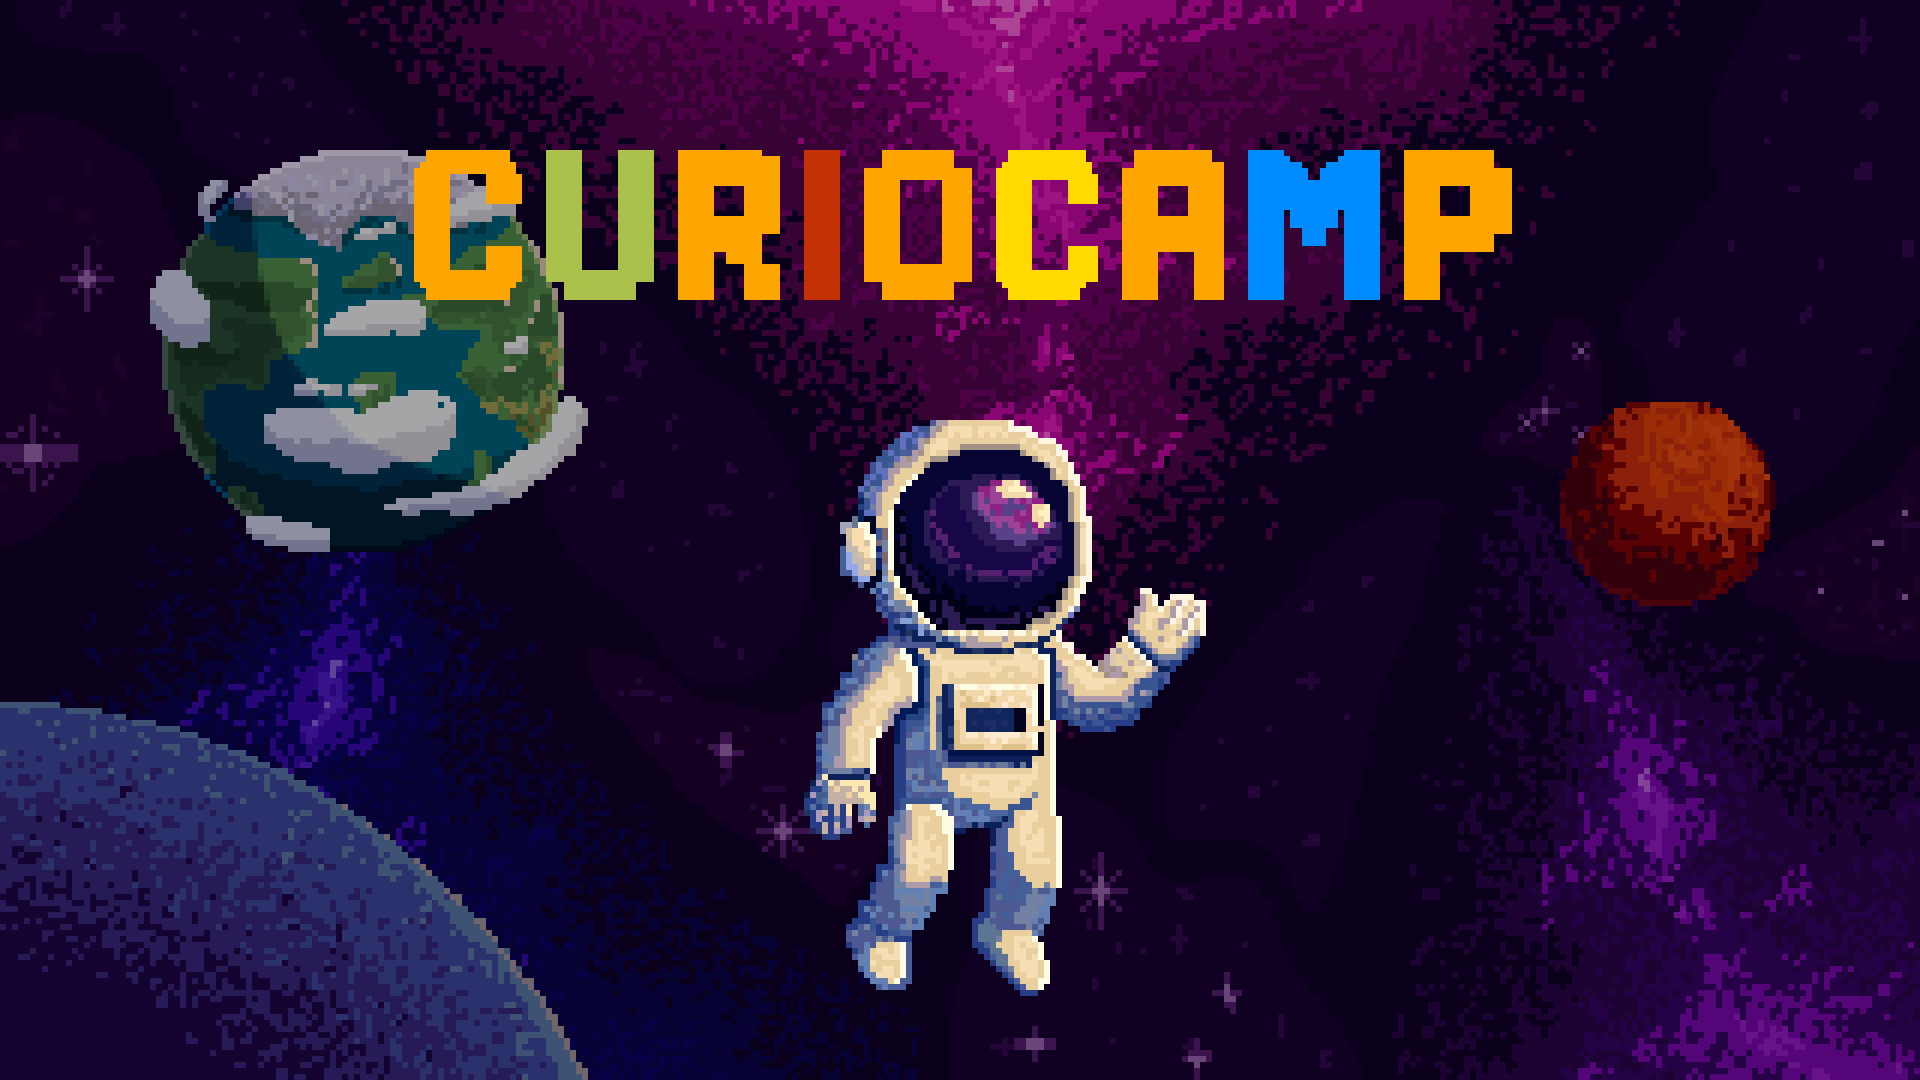
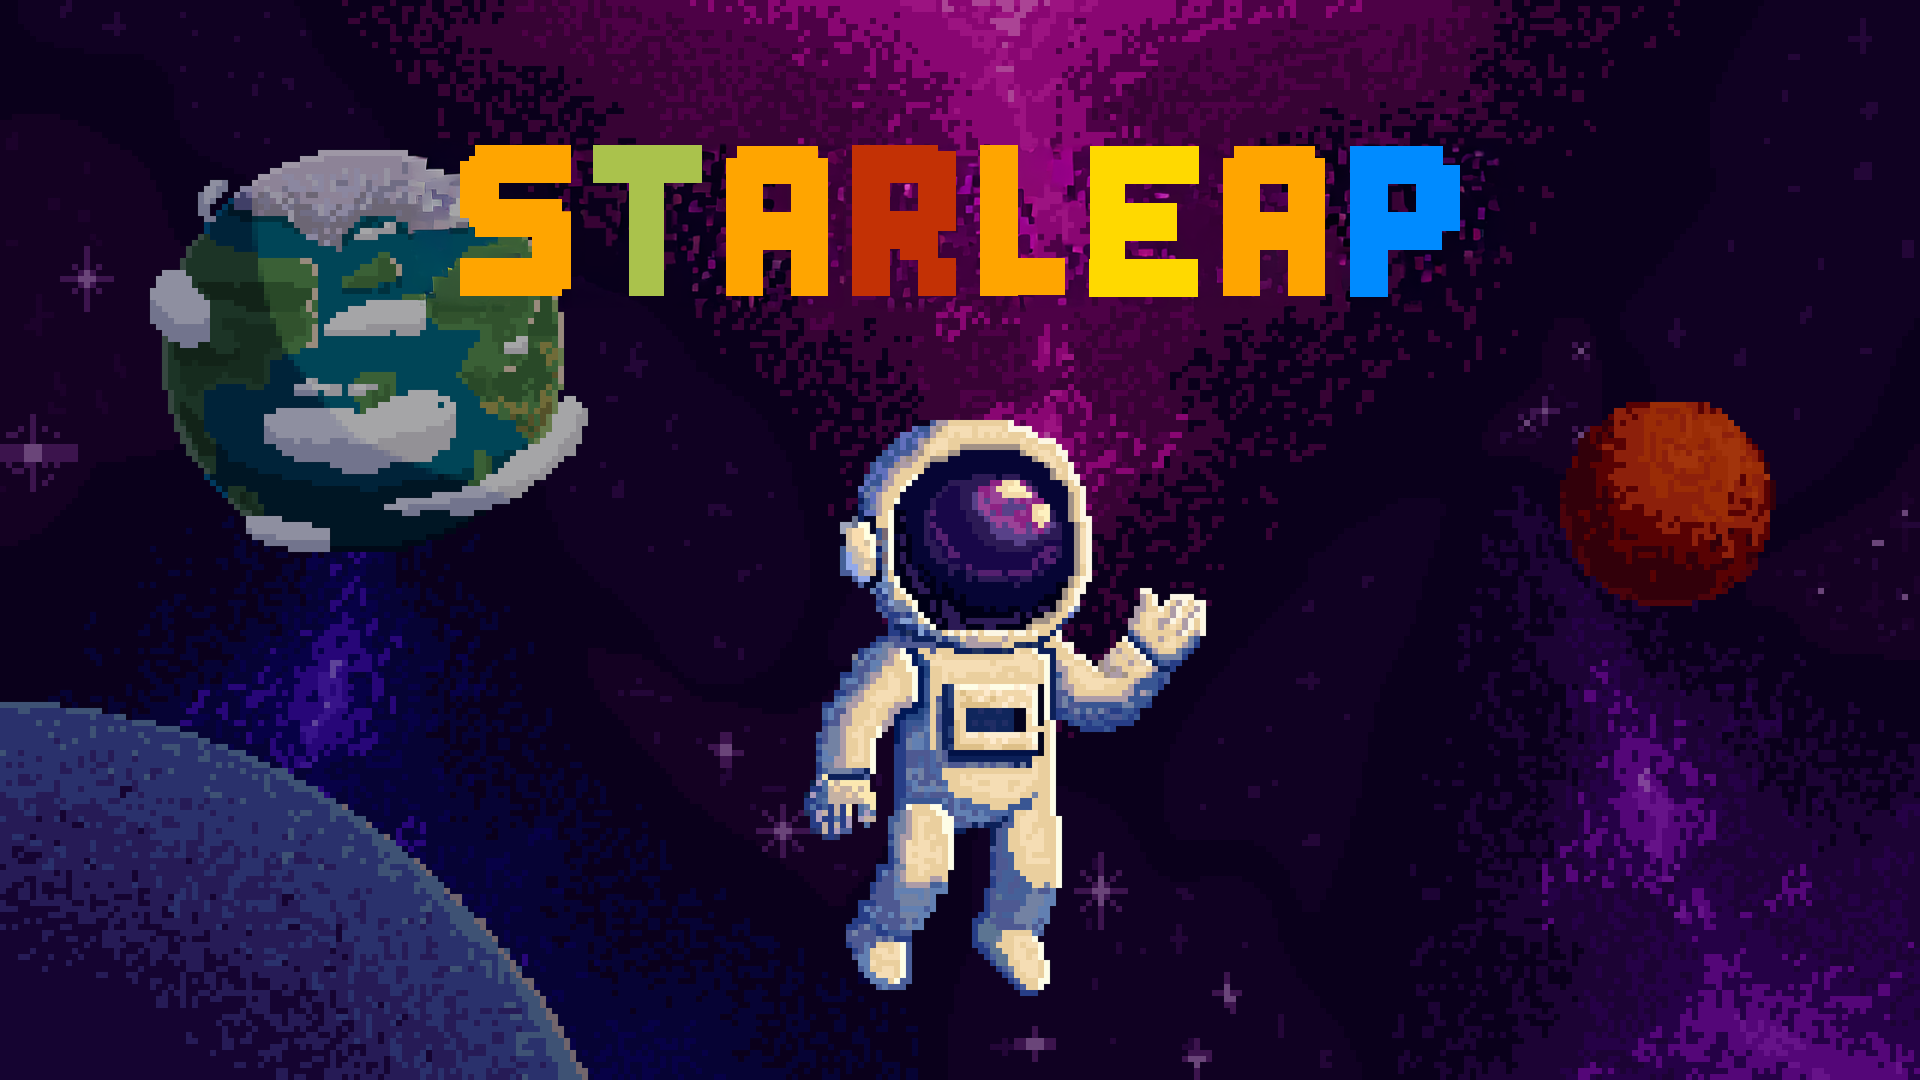
update ui for login page

Changed region(s): [[0.1875, 0.1222, 0.8125, 0.3056]]

diff --git a/Frontend/src/pages/LoginPage.tsx b/Frontend/src/pages/LoginPage.tsx
@@ -92,17 +92,10 @@ export const LoginPage: React.FC = () => {
           </div>
         </form>
 
-        <div className="mt-8">
-          Not a CurioCamp member yet? Visit our Web site to start
+        <div className="mt-8 text-center">
+          Not a StarLeap member yet? <br />Visit our Website to start
         </div>
 
-        <div className="mt-8 flex justify-center">
-          <img
-            src={logoUrl}
-            alt="CurioCamp Logo"
-            className="h-32 w-auto object-contain"
-          />
-        </div>
       </div>
       {/*right side*/}
       <div className="relative  flex-1 lg:block">

diff --git a/Frontend/index.html b/Frontend/index.html
@@ -4,11 +4,11 @@
     <meta charset="UTF-8" />
     <link rel="icon" type="image/svg+xml" href="/favicon.png" />
     <meta name="viewport" content="width=device-width, initial-scale=1.0" />
-    <title>Curio Camp</title>
+    <title>StarLeap</title>
     <link rel="preconnect" href="https://fonts.googleapis.com" />
     <link rel="preconnect" href="https://fonts.gstatic.com" crossorigin />
     <link
-      href="https://fonts.googleapis.com/css2?family=Tiny5&display=swap"
+      href="https://fonts.googleapis.com/css2?family=Tektur:wght@400..900&display=swap"
       rel="stylesheet"
     />
   </head>

diff --git a/Frontend/src/index.css b/Frontend/src/index.css
@@ -2,6 +2,6 @@
 
 @layer base {
   body {
-    font-family: 'Tiny5', sans-serif;
+    font-family: 'Tektur', sans-serif;
   }
 }
